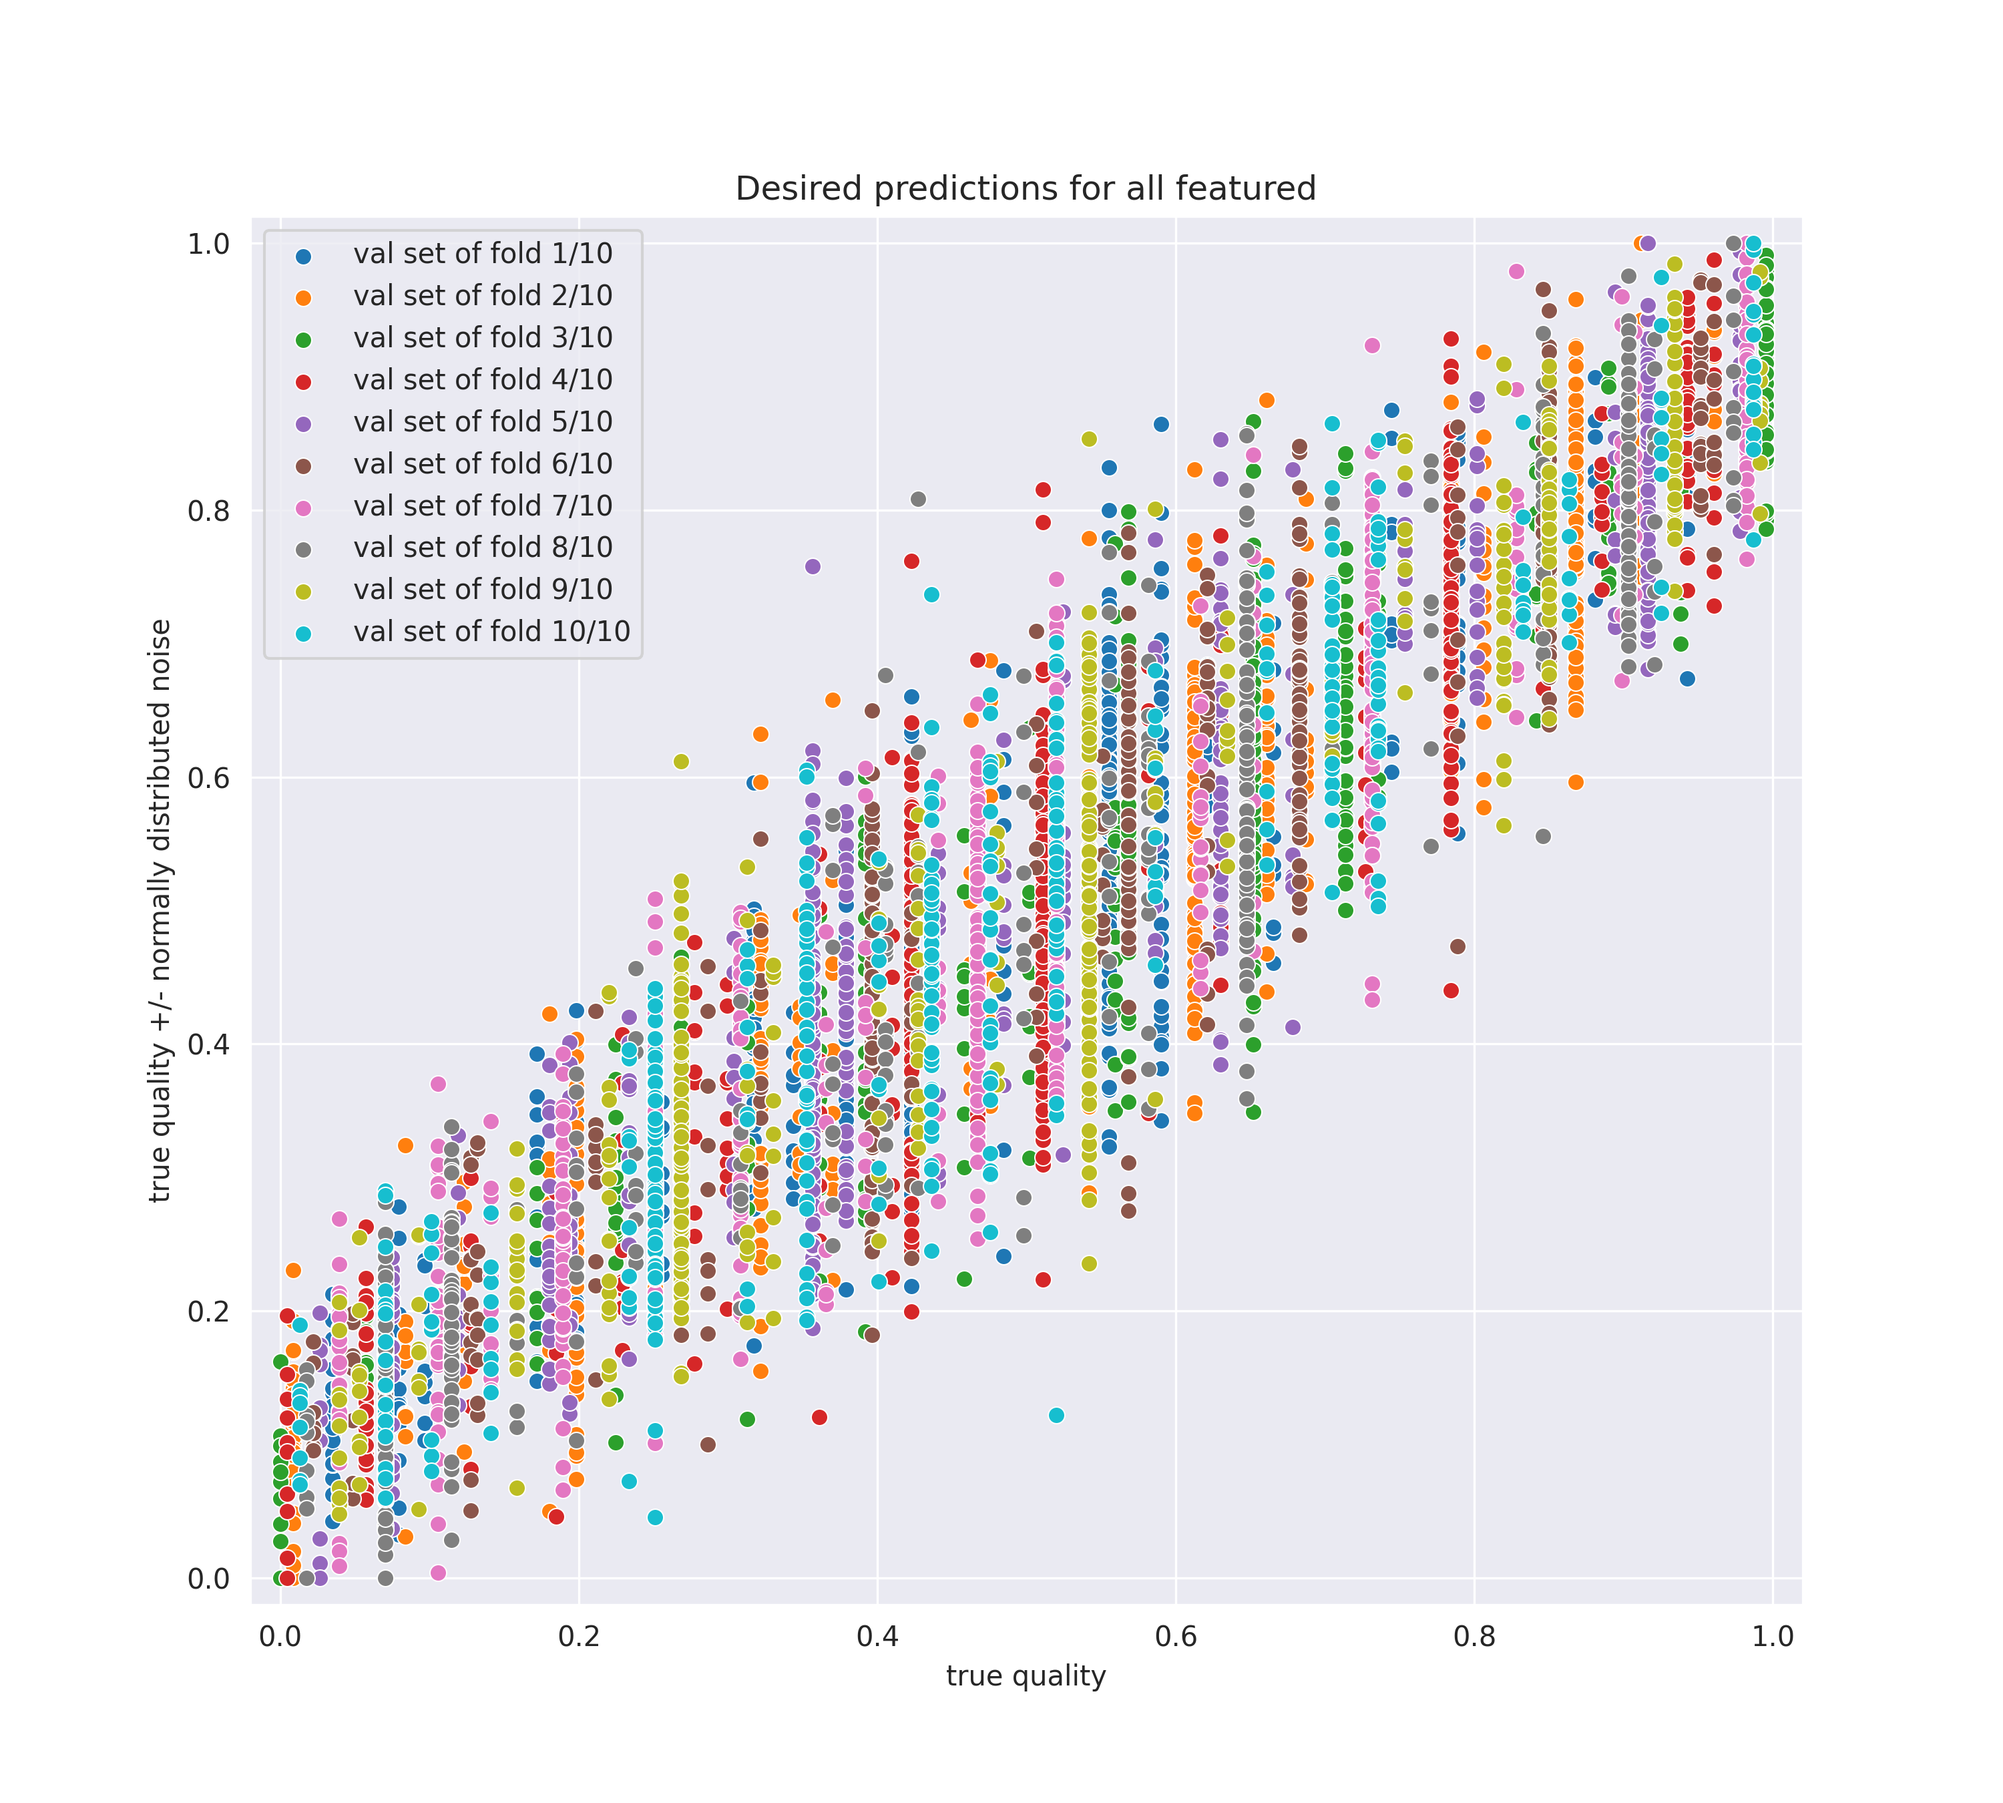
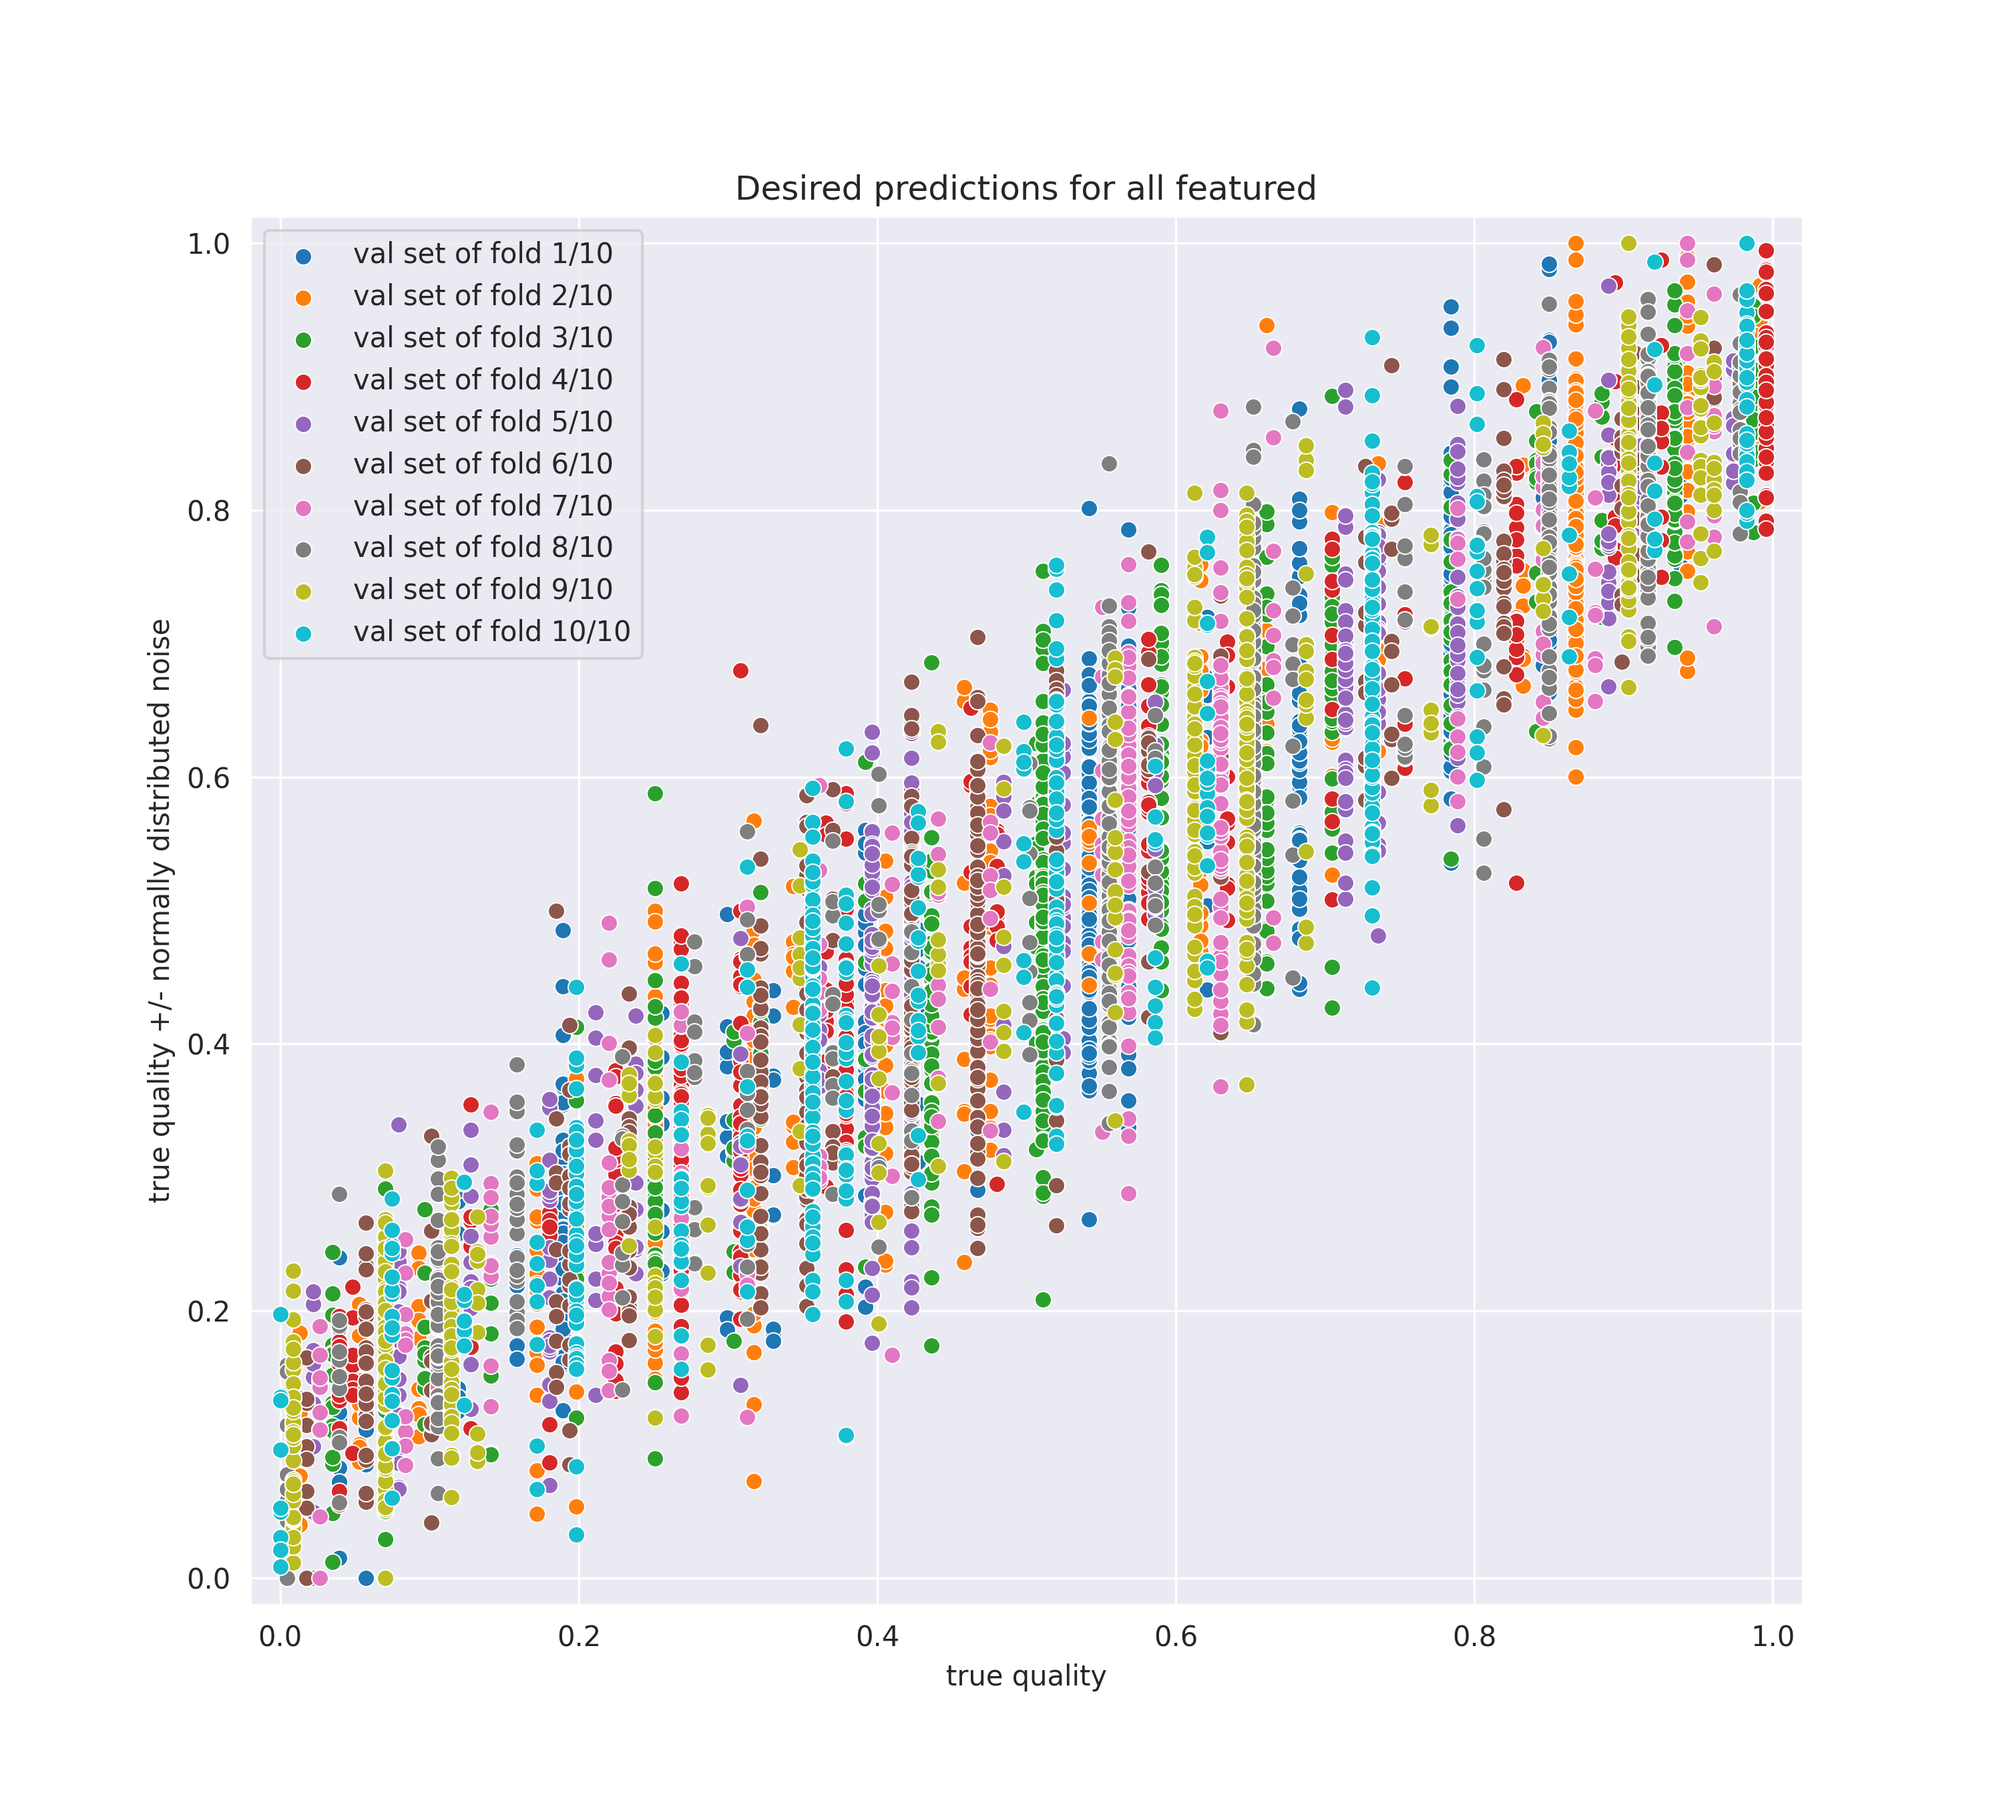
add random forest regressor

Changed region(s): [[0.124, 0.1244, 0.899, 0.9022], [0.403, 0.7778, 0.434, 0.8089]]

diff --git a/sklearn_quality_estimator.py b/sklearn_quality_estimator.py
@@ -26,9 +26,9 @@ def predict(save_predictions=False, n_neighbors=300, max_depth=20):
     truths = []
 
     for i in range(1, CROSS_VAL + 1):
-        print('--------------------------------')
-        print(f"Starting cross validation {i}/{CROSS_VAL}")
-        print('--------------------------------\n')
+        print('-----------------------------------------------------')
+        print(f"Starting cross validation {i}/{CROSS_VAL} for param {'k=' + str(n_neighbors) if METHOD == 'KNN' else 'max_depth=' + str(max_depth)}")
+        print('-----------------------------------------------------\n')
 
         x_train, y_train, x_val, y_val = next(generator)
 
@@ -59,7 +59,7 @@ def predict(save_predictions=False, n_neighbors=300, max_depth=20):
         truths += [y_val.flatten().tolist()]
 
     avg_loss = mean(loss_per_fold)
-    print(f'\nMSE loss per fold: {loss_per_fold}')
+    print(f'MSE loss per fold: {loss_per_fold}')
     print(f"Average loss for {'k=' + str(n_neighbors) if METHOD == 'KNN' else 'max_depth=' + str(max_depth)}: {avg_loss}")
 
     if save_predictions:
@@ -75,7 +75,7 @@ def hyperparameter_search(start, end, stride):
     params = []
     loss_per_param = []
     for p in range(start, end+stride, stride):  # (10, 1010, 10) for k hyperparameter search from 10 to 1000 in steps of 10
-        print(f'Parameter: {p}/{end}')
+        print(f'\n\nParameter: {p}/{end}')
         avg_loss = predict(n_neighbors=p) if METHOD == 'KNN' else predict(max_depth=p)
         params += [p]
         loss_per_param += [avg_loss]

diff --git a/plot-scripts/plot_prediction_results.py b/plot-scripts/plot_prediction_results.py
@@ -121,8 +121,12 @@ def plot_predictions(feature_type, predictions=None, timeseries=False, knn=False
     plot_desired_scatterplot(truths, feature_type)
 
 
-plot_predictions('embeddings-trill')
 plot_predictions('embeddings-ge2e')
+plot_predictions('embeddings-trill')
+
 plot_predictions('feature-streams', timeseries=True)
+plot_predictions('embeddings-ge2e', timeseries=True)
+plot_predictions('embeddings-trill', timeseries=True)
+
 plot_predictions('embeddings-ge2e', knn=True)
 plot_predictions('embeddings-trill', knn=True)
